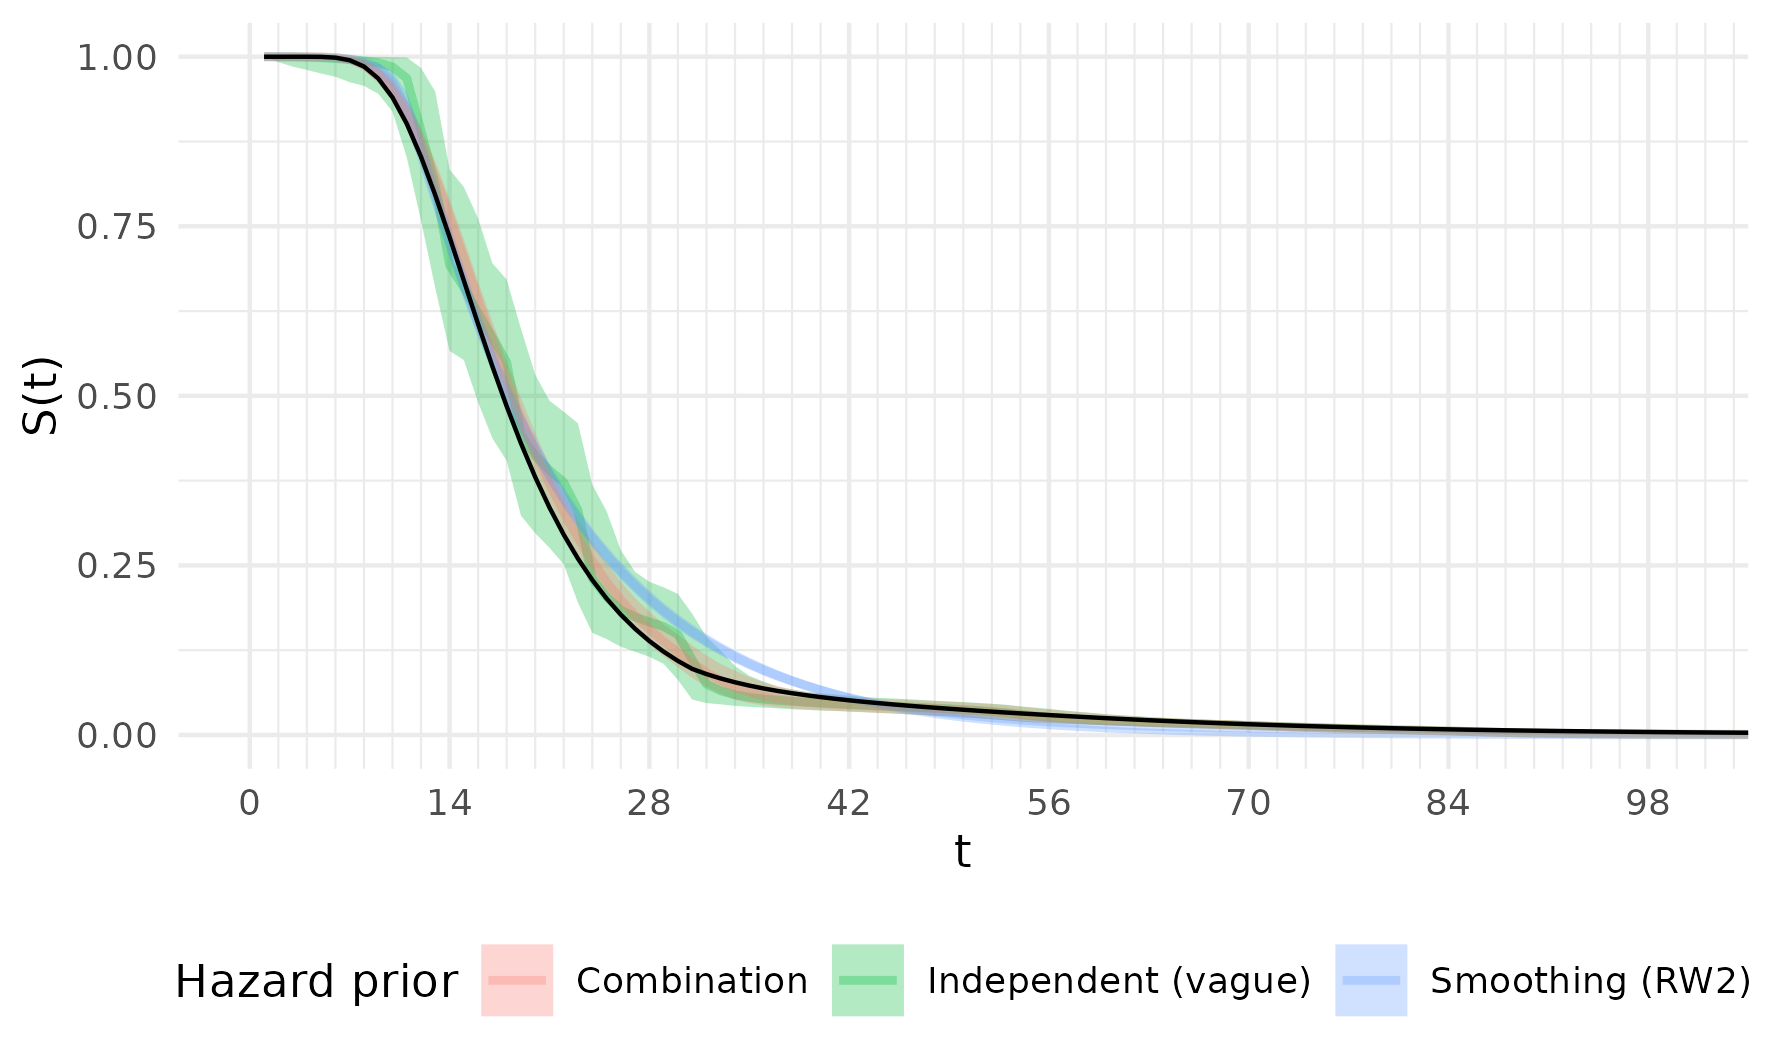
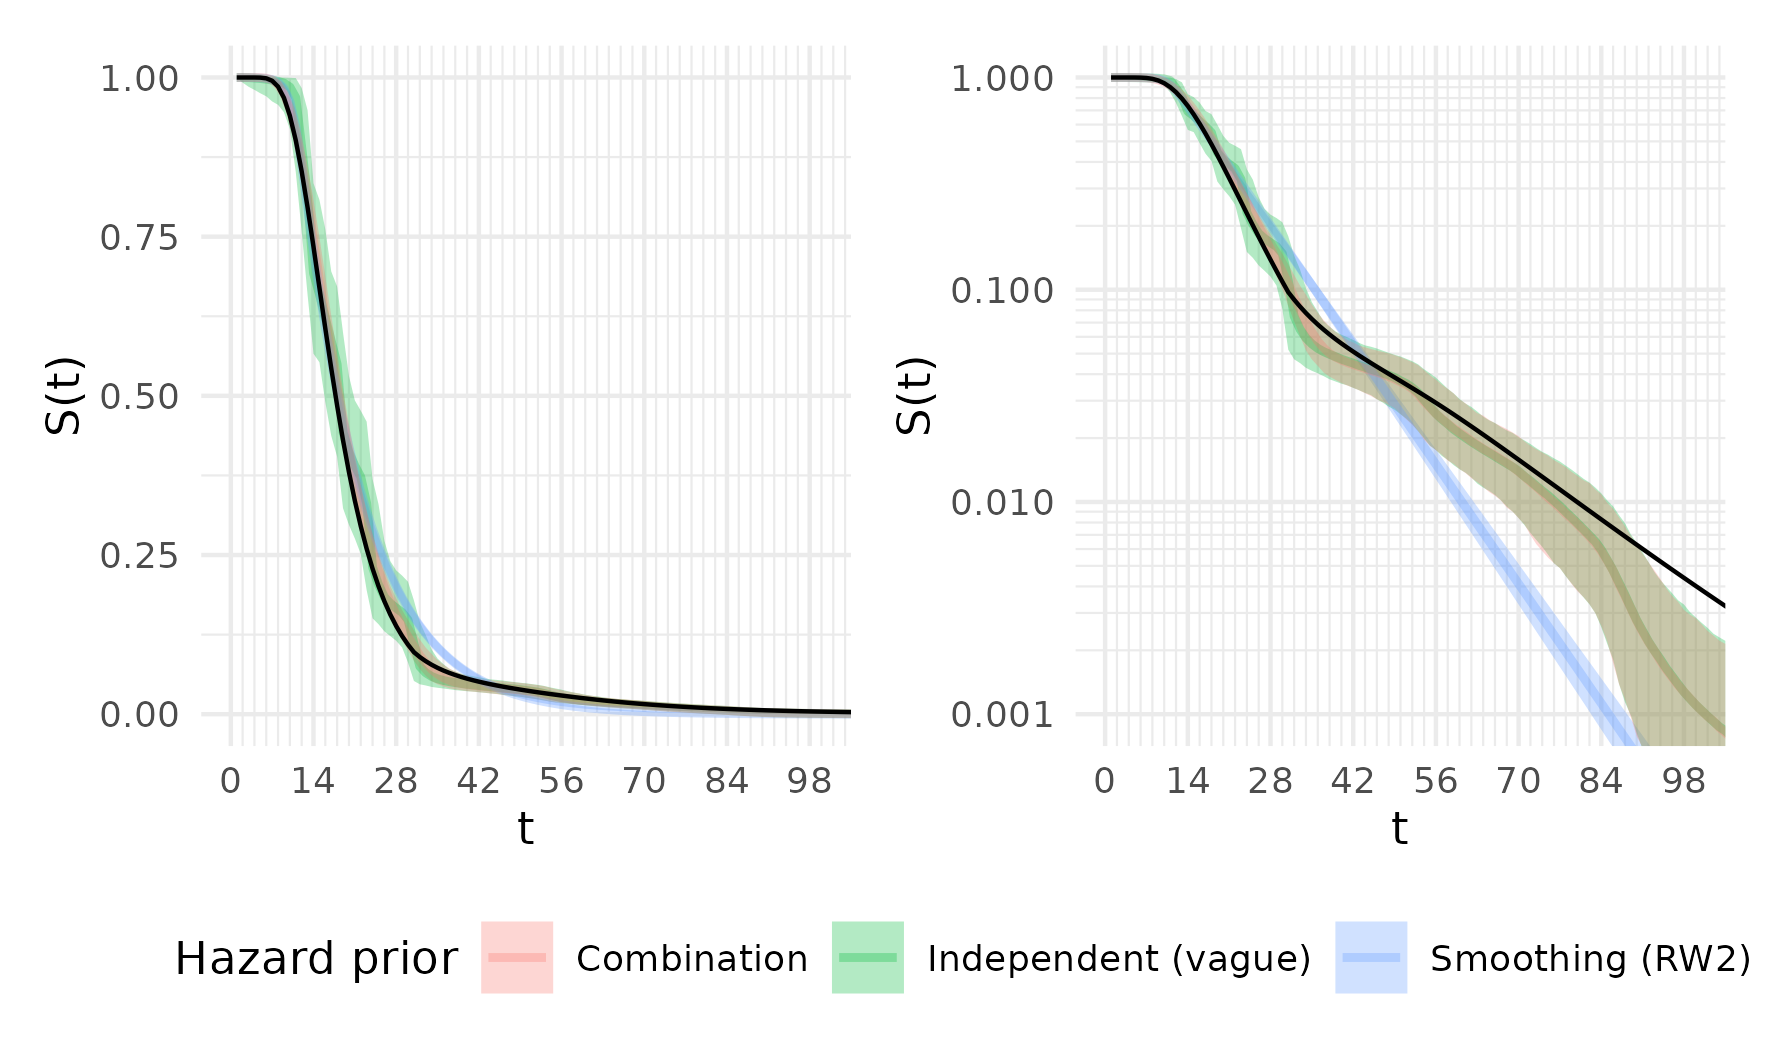
finish chapter rewrite

diff --git a/cis-perfect-testing.tex b/cis-perfect-testing.tex
@@ -49,9 +49,9 @@ Therefore, the estimation of the tail of the duration distribution is driven by 
 This chapter develops methods to estimate the distribution using CIS data, which has less frequent sampling but a large sample size and long follow-up.
 
 I take a Bayesian survival analysis approach to model the coarse sampling of the CIS (see \cref{perf-test:sec:problem}).
-Flat priors can be unintentionally very informative, and hence (weakly) informative priors should be used.
+Flat priors can be unintentionally very informative, and hence uninformative priors should be used.
 Of particular interest is a strongly informative prior to combine the information in the CIS with the results of \cref{E-ATACCC} (see \cref{perf-test:sec:parameters-priors}).
-Through a simulation study, I show that these methods perform well, and in this context are not sensitive to model or whether the prior is weakly or strongly informative (see \cref{perf-test:sec:simulation-study}).
+Through a simulation study, I show that these methods perform well, and in this context are not sensitive to model or whether the prior is vague or strongly informative (see \cref{perf-test:sec:simulation-study}).
 However, application in reality must account for false negatives, the subject of \cref{E-imperf-test}.
 
 \section{Problem description} \label{perf-test:sec:problem}
@@ -69,7 +69,7 @@ The infection episode depicted begins at time 33 and has a 10-day duration.
 If the duration was 24 days (or longer), the individual would still have been detectable at their next test, and therefore would have been detected.
 Undetected infections are a large problem in CIS because the interval between tests is often 28 days (see\todo{ref section on the survey design}), large relative to the duration of an infection episode.
 \begin{figure}
-  \centering \includegraphics{cis-perfect-testing/truncation}
+  \makebox[\textwidth][c]{\includegraphics[width=1.2\textwidth]{cis-perfect-testing/truncation}}
   \caption[Undetected episodes in CIS data]{An unknown number of infection episodes in CIS are undetected. Consider the two individuals shown here: we collect identical data for them (a series of negative tests) yet the top individual was never infected and the bottom individual was. See the main text for why this is an issue. \label{perf-test:fig:truncation}}
 \end{figure}
 
@@ -108,7 +108,6 @@ Undetected events where we have information on missed events is unusual within t
 Far more common is that there is no data on these events, a situation known as \emph{truncation}.
 A situation that is particularly relevant is \emph{left truncation}, when only events lasting a minimum amount of time are observed.
 A subtlety that makes the CIS different from standard left truncation is that information on individuals in which undetected infections occurred is available because they were enrolled in the study.
-This information could be incorporated into the analysis, although doing so increases the computational burden and requires strong assumptions regarding reinfections without noticeably affecting the results (see \cref{appendix:total-model}).
 In standard left truncation, nothing is known about the missed events.
 As the information is not being incorporated here, standard left truncation methods remain applicable, and they can be modified to incorporate the additional information if desired.
 
@@ -334,7 +333,7 @@ Then $\Omega^C_i$ can be written as:
 \begin{align}
 \Omega_i^C = \{ (b, e) \ssep \tau_{\sched_i}(b) + b > e \vee b \leq \min(\sched_i) \}.
 \end{align}
-Only $1 - p_u = 1 - \frac{1}{N} \sum_i^{\Ncis} p_{iu} = \frac{1}{N} \sum_i^{\Ncis} (1 - p_{iu})$ is required (see \cref{perft-test:eq:full-posterior-simplified}).
+Only $1 - p_u = 1 - \frac{1}{N} \sum_i^{\Ncis} p_{iu} = \frac{1}{N} \sum_i^{\Ncis} (1 - p_{iu})$ is required (see \cref{perf-test:eq:full-posterior-simplified}).
 Therefore, I derive $1 - p_{iu}$:
 \begin{align}
 1 - p_{iu}
@@ -385,7 +384,7 @@ This prior expresses extreme scepticism in estimates from previous studies, such
   \caption[Uninformative priors for the hazard]{The density of Beta(1, 1) flat prior and Beta(0.5, 0.5) uninformative priors (left) with the prior predictive survival time (right). The implied prior on the survival time is very short when using either prior on the hazard at each time. \label{perf-test:fig:flat-prior}}
 \end{figure}
 
-Instead, I propose a weakly informative prior Beta(0.1, 1.9), which has mean 0.05 and minimal information.
+Instead, I propose a weakly informative (or vague) prior Beta(0.1, 1.9), which has mean 0.05 and minimal information.
 The amount of information in a Beta distribution is related to the sum of its parameters.
 Here, the sum equals 2, the same as the flat prior case.
 The central 95\% probability mass of Beta(0.1, 1.9) is 0.00--0.47.
@@ -393,7 +392,7 @@ The central estimate, of 0.05, is in line with previous estimates that the media
 This prior gives a very vague prior predictive distribution on the survival time (see \cref{perf-test:fig:vague-prior}).
 \begin{figure}
   \centering \includegraphics{cis-perfect-testing/vague-prior}
-  \caption[Weakly informative priors for the hazard]{The density of Beta(0.1, 1.9) vague prior (left) and the prior predictive survival time (right). The prior predictive survival time is very vague using a Beta(0.1, 1.9) prior. Note the different x-axis to \cref{perf-test:fig:flat-prior}. \label{perf-test:fig:vague-prior}}
+  \caption[Vague prior for the hazard]{The density of Beta(0.1, 1.9) vague prior (left) and the prior predictive survival time (right). The prior predictive survival time is very vague using a Beta(0.1, 1.9) prior. Note the different x-axis to \cref{perf-test:fig:flat-prior}. \label{perf-test:fig:vague-prior}}
 \end{figure}
 
 
@@ -457,12 +456,14 @@ The discrete Beta process prior generalises the form of prior used in \cref{perf
 It is:
 \begin{align}
   \lambda_t &\sim \text{Beta}(\alpha_t, \beta_t) &t = 1, 2, \dots \\
-  \alpha_t &= c_t h_t + \alpha_0 \\
-  \beta_t &= c_t (1 - h_t) + \beta_0
+  \alpha_t &= k_t h_t + \alpha_0 \\
+  \beta_t &= k_t (1 - h_t) + \beta_0
 \end{align}
 where $k_t$, $\alpha_0$, and $\beta_0$ are hyperparameters; and $h_t$ is a point estimate of the hazard at time $t$ from ATACCC.
 An intuition for what this distribution represents can be gained by considering the conjugate model for $\lambda_t$ with a beta prior and a binomial likelihood.
 If $\lambda_t$ is given the prior distribution $\text{Beta}(\alpha_0, \beta_0)$, and we then have $k_t$ observations with $k_t h_t$ successes, then the posterior distribution for $\lambda_t$ is $\text{Beta}(\alpha_t, \beta_t)$ (as defined above).
+
+\todo{Add plot of $k_t$}
 
 \section{Simulation study} \label{perf-test:sec:simulation-study}
 
@@ -530,21 +531,31 @@ Code utilising these frameworks to perform the analysis described in this chapte
 
 \subsection{Results}
 
-All analyses converged, with all parameters Rhat < 1.01, effective sample size of 1000, and no divergent transitions.
+Repeating the simulation showed negligible variation in the results (not shown).
+This is caused by the large sample size (4800 detected infections).
+Therefore, only results from a single simulation are shown and dicussed.
 
-Repeating simulations showed very little variation in the results, due to the large sample size in CIS; therefore, only results from a single simulation are shown.
+All analyses converged.
+Rhat were below 1.01, all parameters had an effective sample size of 1000, and there were no divergent transitions.
 
-The true value of the survival function is very well recovered with little difference between priors (see \cref{perf-test:fig:survival-results}).
+The true value of the survival function was generally well recovered (see \cref{perf-test:fig:survival-results}).
+This was especially true for the first 30 days of the distribution.
 
-The independent prior has the fewest assumptions and least prior information.
-Therefore, it leads to posterior estimates that are most uncertain.
+The second-order random walk prior performed worst.
+It showed oversmoothing, especially in the later parts of the distribution.
+It smooths towards a linearly changing hazard; here, linearly decreasing (see \cref{perf-test:fig:hazard-results}).
+This means that the survival function decreases slower than an exponential distribution in the tail.
 
-The second-order random walk is the only prior that smooths the hazard throughout the entire infection.
-This leads to a near-constant hazard, and hence exponential-like survival, in areas where there is little information (long infections).
+The informative and vague independent priors performed similarly.
+The informative prior had tighter credible intervals, as expected.
+This prior was centered on the correct value for the initial part of the distribution.
+Therefore, the narrow credible intervals are unsurprising.
+For hazards after day X\todo{check and insert}, the informative and vague priors are the same.
+Therefore, the posterior distributions are almost identical.
 
 \begin{figure}
   \centering \includegraphics{cis-perfect-testing/survival-results}
-  \caption[Comparison of survival function estimates under different priors]{Comparison of the posterior estimate of the survival distribution (pointwise median and 95\% CrI) when using different priors on the hazard. Results using each of the three different priors discussed in \cref{perf-test:sec:parameters-priors} are shown. \label{perf-test:fig:survival-results}}
+  \caption[Comparison of survival function estimates under different priors]{Comparison of the posterior estimate of the survival distribution (pointwise median and 95\% CrI) when using different priors on the hazard. Results using each of the three different priors discussed in \cref{perf-test:sec:parameters-priors} are shown. y-axis has either natural (left) or log (right) scale. Only showing first 100 days of the distribution. \label{perf-test:fig:survival-results}}
 \end{figure}
 
 \begin{figure}
@@ -554,20 +565,23 @@ This leads to a near-constant hazard, and hence exponential-like survival, in ar
 
 \section{Discussion} \label{perf-test:sec:discussion}
 
-This chapter shows that the model I propose can recover the true survival function well, is not sensitive to the prior used for the survival distribution, nor requires information on the number of infections that were undetected.
+This chapter shows that the model I propose can recover the true survival function well.
 However, the problem becomes substantially harder if false negatives are present, as we shall see in the next chapter.
 Unfortunately, false negatives do occur in the CIS data.
+
+Reasonable choices of the prior for the hazard are vague (although not flat) or informative.
+A smoothing prior performed poorly, although that may be influenced by the choice of hyperparameters.
+Reducing the amount of smoothing or type of smoothing may help.
+More flexible smoothers, such as a Gaussian Process for additional flexibility and smoothing and different time-scales~\autocite{saulGaussian}.
 
 Various extensions could be worth exploring.
 Most importantly, covariates (\eg age, immunity from vaccination and/or previous infection, or variant) could be included.
 Immunity in particular affects the duration substantially, although age and variant may also make a contribution~\autocites{hakkiOnset}{russellWithinhost}.
-Covariates can be included with a variety of model, the simplest being a proportional hazards model.
-
-The form of priors used for the survival function could also be extended.
-In particular, the form of smoothing chosen here is very simple and could be replaced with a more flexible model, such as a Gaussian Process for additional flexibility and smoothing and different time-scales~\autocite{saulGaussian}.
+Covariates can be included with a variety of models, the simplest being a proportional hazards model.
+A major challenge here is that the calculation of $p_t$ is greatly complicated, because it is no longer linear in the survival function.
 
 The prior would likely be more important if the number of detected infections was smaller.
-Therefore, exploring its impact would be important for designing future surveys.
+Therefore, exploring its impact could be important for future surveys.
 A particular application would be estimation in the early stages of an epidemic of a novel pathogen.
 Here, little would be known about the pathogen, but gathering information with robust estimates of uncertainty is important to inform the response.
 
@@ -576,6 +590,19 @@ In this case, a sensitivity analysis (not shown) showed minimal impact on surviv
 Furthermore, I chose a period where the incidence was approximately constant.
 However, this assumption could be important in other contexts, especially if the incidence is changing rapidly.
 The assumption of constant incidence can lead to biased estimates~\autocite{degruttolaAnalysis}.
+
+I have developed a flexible simulation and inference framework for this type of analysis.
+This framework could be used to simulate alternate study designs.
+The design of CIS was created on a very short timescale in March 2020, in response to the pandemic's rapid spread.
+Therefore, it is likely that there are more efficient designs.
+These could be more cost-effective.
+Improved cost-effectiveness could allow more rapid response to potential pandemics because the threshold for policy-makers to approve the study would be lower.
+A long-term, preparatory effort to develop a more efficient design in preparation of a future pandemic would be worthwhile.
+
+Other useful preparatory work would be developing reasonable priors.
+These could be based on seasonal viruses that are of the same family as those likely to cause future pandemics.
+For example, seasonal influenzas and coronaviruses.
+These would allow analyses such as those performed in these chapters to be performed more rapidly in a future pandemic scenario.
 
 \section{Conclusion} \label{perf-test:sec:conclusion}
 This chapter has shown the feasibility of estimating the survival function from a study with a CIS-like testing schedule.
